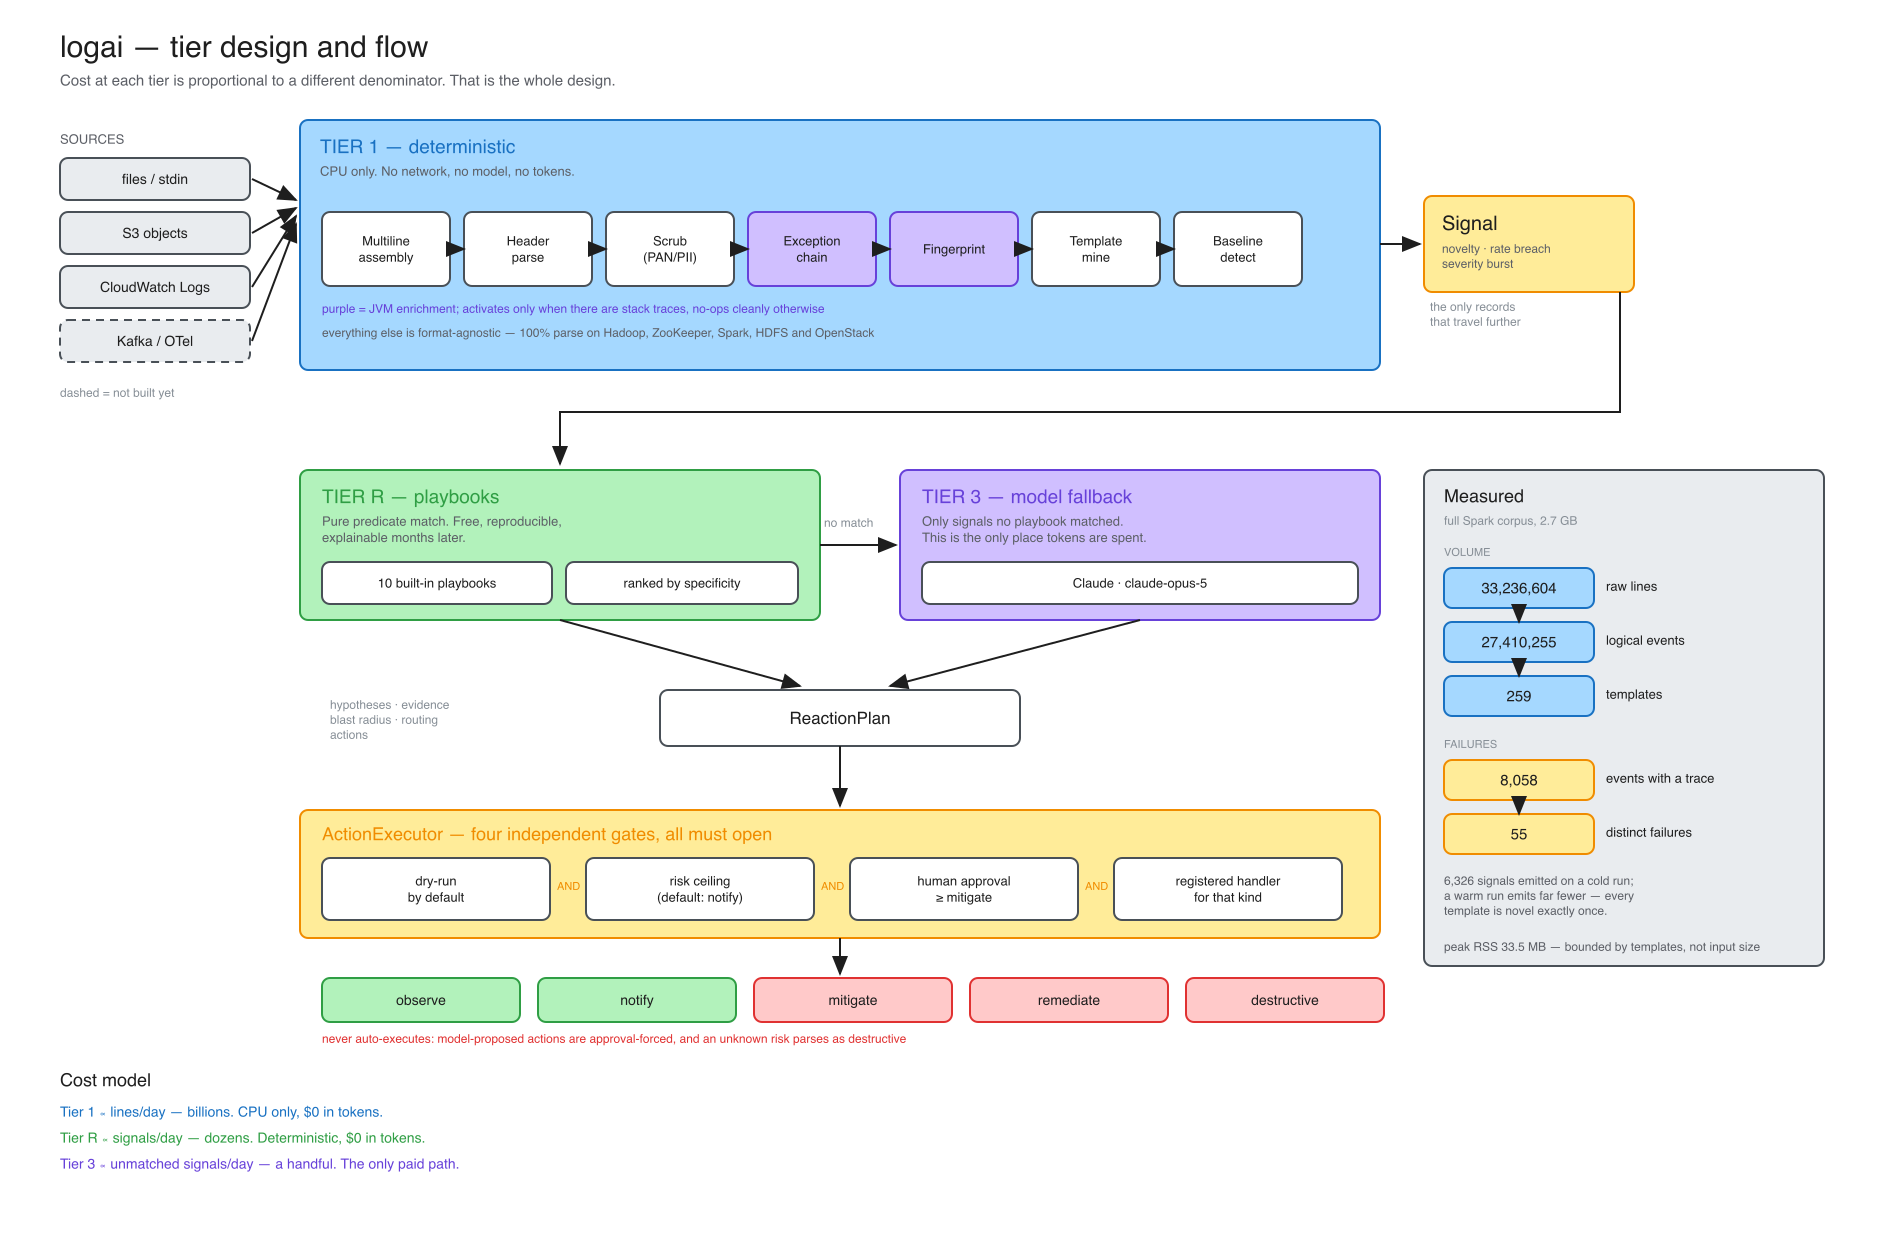
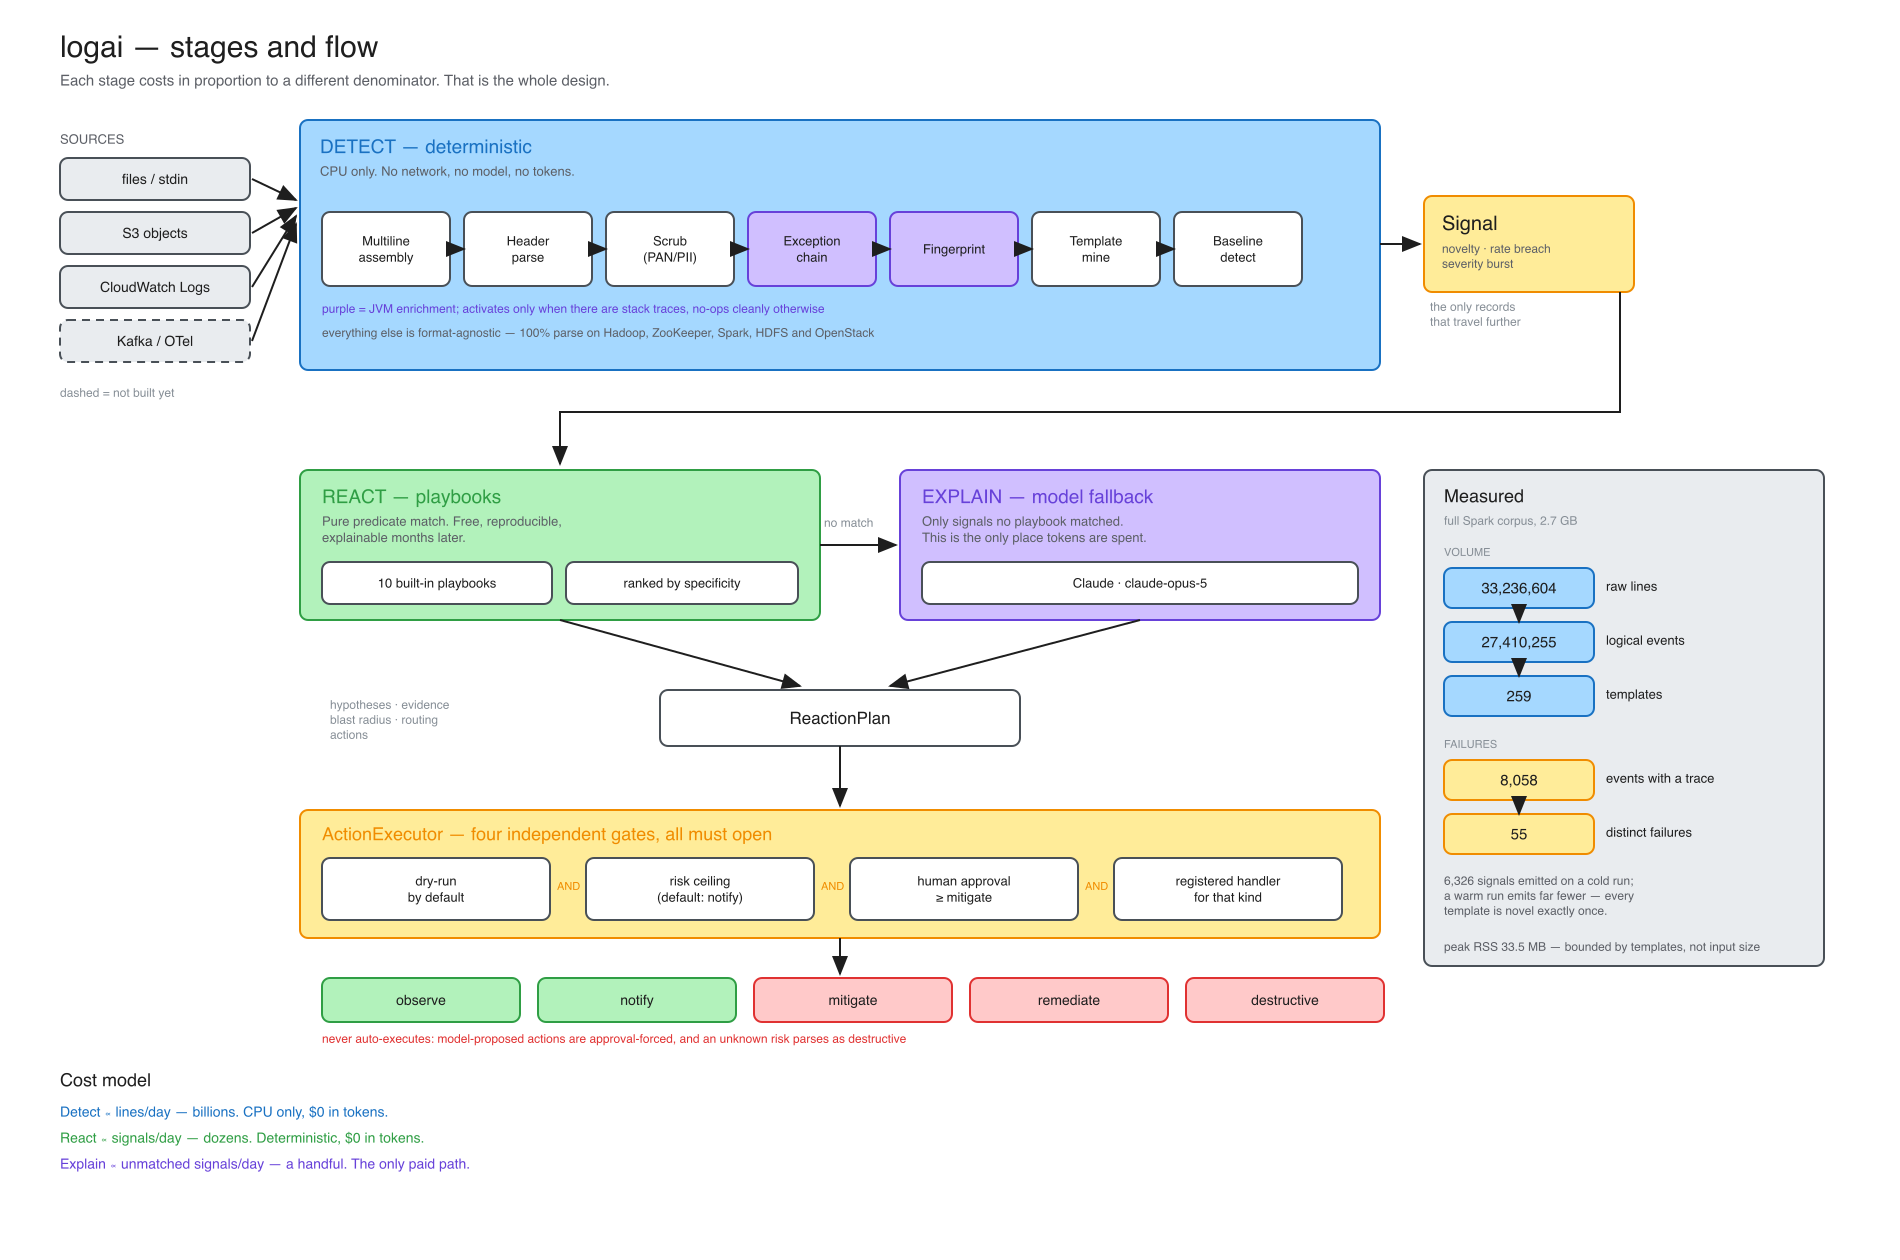
Drop tier numbering; the stages are Detect, React, Explain
The numbering had stopped describing anything. It began as 1 deterministic /
2 cheap-embedding-model / 3 agentic, and the code was written against it --
Signal was documented as "the hand-off record to tier 2/3". When the reaction
stage arrived it did not fit that scheme, so it was bolted on as "R" and tier 2
was left in the README as `not built`. The result contradicted itself: the docs
called tier 2 unbuilt while the CLI told users their signals had been escalated
to it.

Names carry the meaning the numbers were failing to, and there is no sequence to
leave a hole in:

  Detect   deterministic pipeline -> Signal      lines/day, billions
  React    playbook match -> ReactionPlan        signals/day, dozens
  Explain  model plans the unmatched long tail   unmatched signals/day, a handful

The embedding/clustering idea that occupied the old tier 2 was never a stage of
its own -- it is an optimisation inside detect, collapsing near-duplicate novel
templates so fewer become signals. It now sits in future work.

Beyond documentation, this renames the public class Tier1Pipeline -> Pipeline.
Leaving it would have put a tier number in the most visible identifier in the
project while the docs claimed there were none. Nothing external depends on it:
no release, no tags, so the rename is clean rather than a deprecation. Say if
you would rather the code had been left alone.

Diagram regenerated and re-rendered; verified visually.

164 tests.

diff --git a/docs/make_architecture.py b/docs/make_architecture.py
@@ -1,4 +1,4 @@
-"""Generates docs/architecture.excalidraw -- the tier design and data flow.
+"""Generates docs/architecture.excalidraw -- the stages and data flow.
 
 Written as a generator rather than hand-authored JSON so the geometry stays
 consistent and the diagram can be regenerated when the design moves.
@@ -84,8 +84,8 @@ def arrow(x1, y1, x2, y2, color=INK, dashed=False, via=()):
 
 
 # ---------------------------------------------------------------- title
-text(60, 30, "logai — tier design and flow", size=30)
-text(60, 72, "Cost at each tier is proportional to a different denominator. "
+text(60, 30, "logai — stages and flow", size=30)
+text(60, 72, "Each stage costs in proportion to a different denominator. "
              "That is the whole design.", size=15, color="#5c5f66")
 
 # ---------------------------------------------------------------- sources
@@ -96,10 +96,10 @@ for i, (name, planned) in enumerate(srcs):
     box(60, 158 + i * 54, 190, 42, name, GRAY, size=14, dashed=planned)
 text(60, 386, "dashed = not built yet", size=12, color="#868e96")
 
-# ---------------------------------------------------------------- tier 1
+# ---------------------------------------------------------------- detect
 T1X, T1Y, T1W, T1H = 300, 120, 1080, 250
 box(T1X, T1Y, T1W, T1H, "", BLUE, radius=3)
-text(T1X + 20, T1Y + 16, "TIER 1 — deterministic", size=19, color="#1971c2")
+text(T1X + 20, T1Y + 16, "DETECT — deterministic", size=19, color="#1971c2")
 text(T1X + 20, T1Y + 44, "CPU only. No network, no model, no tokens.", size=13, color="#5c5f66")
 
 stages = ["Multiline\nassembly", "Header\nparse", "Scrub\n(PAN/PII)",
@@ -128,10 +128,10 @@ text(SX + 18, SY + 46, "novelty · rate breach\nseverity burst", size=12, color=
 arrow(T1X + T1W, 244, SX - 4, 244)
 text(SX + 6, SY + 104, "the only records\nthat travel further", size=12, color="#868e96")
 
-# ---------------------------------------------------------------- reaction tier
+# ---------------------------------------------------------------- react / explain
 RY = 470
 box(300, RY, 520, 150, "", GREEN)
-text(322, RY + 16, "TIER R — playbooks", size=19, color="#2f9e44")
+text(322, RY + 16, "REACT — playbooks", size=19, color="#2f9e44")
 text(322, RY + 44, "Pure predicate match. Free, reproducible,\n"
                    "explainable months later.", size=13, color="#5c5f66")
 box(322, RY + 92, 230, 42, "10 built-in playbooks", WHITE, size=13)
@@ -139,7 +139,7 @@ box(566, RY + 92, 232, 42, "ranked by specificity", WHITE, size=13)
 arrow(SX + 196, SY + 96, 560, RY - 6, via=[(1620, 412), (560, 412)])
 
 box(900, RY, 480, 150, "", VIOLET)
-text(922, RY + 16, "TIER 3 — model fallback", size=19, color="#6741d9")
+text(922, RY + 16, "EXPLAIN — model fallback", size=19, color="#6741d9")
 text(922, RY + 44, "Only signals no playbook matched.\nThis is the only place tokens are spent.",
      size=13, color="#5c5f66")
 box(922, RY + 92, 436, 42, "Claude · claude-opus-5", WHITE, size=13, family=3)
@@ -215,11 +215,11 @@ text(FX + 20, FY + 470, "peak RSS 33.5 MB — bounded by templates, not input si
      size=12, color="#5c5f66")
 
 text(60, CY, "Cost model", size=18)
-for i, (tier, denom, color) in enumerate([
-        ("Tier 1", "lines/day — billions.  CPU only, $0 in tokens.", "#1971c2"),
-        ("Tier R", "signals/day — dozens.  Deterministic, $0 in tokens.", "#2f9e44"),
-        ("Tier 3", "unmatched signals/day — a handful.  The only paid path.", "#6741d9")]):
-    text(60, CY + 34 + i * 26, f"{tier}   ∝  {denom}", size=14, color=color)
+for i, (stage, denom, color) in enumerate([
+        ("Detect ", "lines/day — billions.  CPU only, $0 in tokens.", "#1971c2"),
+        ("React  ", "signals/day — dozens.  Deterministic, $0 in tokens.", "#2f9e44"),
+        ("Explain", "unmatched signals/day — a handful.  The only paid path.", "#6741d9")]):
+    text(60, CY + 34 + i * 26, f"{stage}   ∝  {denom}", size=14, color=color)
 
 OUT.write_text(json.dumps({
     "type": "excalidraw", "version": 2, "source": "https://excalidraw.com",

diff --git a/logai/cli.py b/logai/cli.py
@@ -13,7 +13,7 @@ from pathlib import Path
 from typing import Iterable, Sequence
 
 from .baseline.detector import DetectorConfig
-from .pipeline import PipelineConfig, Tier1Pipeline
+from .pipeline import Pipeline, PipelineConfig
 from .react.actions import RiskLevel
 from .react.engine import ReactionEngine
 from .react.execute import ActionExecutor, ExecutorConfig
@@ -70,12 +70,12 @@ class ReportData:
         self.signals.extend(signals)
 
 
-def _report(path: str, pipeline: Tier1Pipeline, data: ReportData, top: int) -> str:
+def _report(path: str, pipeline: Pipeline, data: ReportData, top: int) -> str:
     s = pipeline.stats
     out: list[str] = []
     w = out.append
 
-    w(f"\n\033[1mTier-1 report\033[0m  {path}")
+    w(f"\n\033[1mlogai report\033[0m  {path}")
     w("=" * 72)
 
     parsed_pct = 100 * s.parsed_events / s.events if s.events else 0
@@ -87,7 +87,7 @@ def _report(path: str, pipeline: Tier1Pipeline, data: ReportData, top: int) -> s
     hits = dict(pipeline.scrubber.totals)
     hit_str = " ".join(f"{k}={v}" for k, v in sorted(hits.items())) or "none"
     w(f"  Redaction    {_fmt(s.redacted_events)} events redacted  [{hit_str}]")
-    w(f"  Signals      {len(data.signals)} escalated to tier 2/3")
+    w(f"  Signals      {len(data.signals)} escalated to react/explain")
 
     template_counts = data.template_counts
     templates = pipeline.miner.templates()
@@ -128,7 +128,7 @@ def main(argv: Sequence[str] | None = None) -> int:
     parser = argparse.ArgumentParser(prog="logai", description=__doc__)
     sub = parser.add_subparsers(dest="command", required=True)
 
-    an = sub.add_parser("analyze", help="run the tier-1 pipeline over a log file")
+    an = sub.add_parser("analyze", help="run the detect pipeline over a log file")
     an.add_argument("path", nargs="?", default=None,
                     help="log file, or - for stdin (omit when using --loghub)")
     an.add_argument("--loghub-full", metavar="NAME",
@@ -196,7 +196,7 @@ def main(argv: Sequence[str] | None = None) -> int:
             min_ratio=args.min_ratio,
         ),
     )
-    pipeline = Tier1Pipeline(config)
+    pipeline = Pipeline(config)
     if args.loghub_full:
         label, lines = f"loghub-full:{args.loghub_full}", loghub.load_full(args.loghub_full)
     elif args.loghub:

diff --git a/logai/pipeline.py b/logai/pipeline.py
@@ -1,4 +1,4 @@
-"""Tier 1: the deterministic path. No model calls, no network, no tokens.
+"""Detect: the deterministic path. No model calls, no network, no tokens.
 
     raw lines
       -> MultilineAssembler   one logical event per stack trace
@@ -8,10 +8,10 @@
       -> fingerprint_exception  stable identity for the failure
       -> TemplateMiner        drain3 template id
       -> BaselineDetector     novelty / rate breach / severity burst
-      -> Signal               the hand-off record to tier 2 and 3
+      -> Signal               the hand-off record to react and explain
 
 Cost here is CPU-per-line and nothing else, which is what lets it run over the
-full firehose. Only :class:`Signal` objects continue to the paid tiers, so spend
+full firehose. Only :class:`Signal` objects travel further, so spend downstream
 scales with incidents rather than with volume.
 """
 
@@ -64,11 +64,11 @@ class PipelineStats:
 
     @property
     def compression(self) -> float:
-        """Raw lines per distinct template -- the tier-1 economics in one number."""
+        """Raw lines per distinct template -- the economics in one number."""
         return self.raw_lines / self.templates if self.templates else 0.0
 
 
-class Tier1Pipeline:
+class Pipeline:
     def __init__(self, config: PipelineConfig | None = None) -> None:
         self.config = config or PipelineConfig()
         self.assembler = MultilineAssembler(self.config.header_pattern)

diff --git a/logai/baseline/detector.py b/logai/baseline/detector.py
@@ -1,9 +1,9 @@
 """Decides which events are worth a model call.
 
 This is the gate that makes the economics work. Everything upstream is
-arithmetic over templates; everything downstream (embedding, LLM triage) is paid
-per call. A signal emitted here is the unit of work handed to the expensive
-tiers, so the volume of signals -- not the volume of logs -- sets the bill.
+arithmetic over templates; everything downstream is paid per call. A
+signal emitted here is the unit of work handed on, so the volume of signals --
+not the volume of logs -- sets the bill.
 
 Three detectors, cheapest first:
 
@@ -38,7 +38,7 @@ SEVERITY_BURST = "severity_burst"
 
 @dataclass(slots=True)
 class Signal:
-    """A candidate incident. The hand-off record to tier 2/3."""
+    """A candidate incident. The hand-off record to the react stage."""
 
     kind: str
     key: str
@@ -148,7 +148,7 @@ class BaselineDetector:
         # Novelty is whether the *miner* had ever seen this template, not whether
         # this process has. drain3 persists that across restarts; a set kept here
         # would not, and would re-announce every template as new after every
-        # deploy -- alert spam that bills straight through to tier 3.
+        # deploy -- alert spam that bills straight through to the model.
         if (
             self.config.report_novel_templates
             and event.template_id is not None

diff --git a/logai/__init__.py b/logai/__init__.py
@@ -1,4 +1,4 @@
-"""logai -- tiered log intelligence.
+"""logai -- staged log intelligence.
 
 Format-agnostic through template mining and baselining; strongest on JVM
 logs, where stack traces are reassembled into single events and failures are
@@ -7,7 +7,7 @@ the rest of the pipeline unchanged.
 """
 
 from .baseline.detector import BaselineDetector, DetectorConfig, Signal
-from .pipeline import PipelineConfig, PipelineStats, Tier1Pipeline
+from .pipeline import Pipeline, PipelineConfig, PipelineStats
 from .react.actions import Action, ActionResult, RiskLevel
 from .react.engine import EngineConfig, Planner, ReactionEngine
 from .react.execute import ActionExecutor, ExecutorConfig
@@ -17,11 +17,11 @@ from .schema import ExceptionInfo, LogEvent, Severity, StackFrame
 
 __version__ = "0.2.0"
 __all__ = [
-    # tier 1
-    "Tier1Pipeline", "PipelineConfig", "PipelineStats",
+    # detect
+    "Pipeline", "PipelineConfig", "PipelineStats",
     "BaselineDetector", "DetectorConfig", "Signal",
     "LogEvent", "ExceptionInfo", "StackFrame", "Severity",
-    # reaction tier
+    # react / explain
     "ReactionEngine", "EngineConfig", "Planner", "ReactionPlan", "Routing",
     "Playbook", "Match", "BUILTIN_PLAYBOOKS",
     "Action", "ActionResult", "RiskLevel", "ActionExecutor", "ExecutorConfig",

diff --git a/tests/test_sources.py b/tests/test_sources.py
@@ -135,8 +135,8 @@ def test_widening_the_header_pattern_did_not_swallow_continuations(line):
 
 
 def test_non_jvm_logs_use_the_pipeline_without_the_exception_layer():
-    from logai import PipelineConfig, Tier1Pipeline
-    pipeline = Tier1Pipeline(PipelineConfig(default_service="openstack"))
+    from logai import PipelineConfig, Pipeline
+    pipeline = Pipeline(PipelineConfig(default_service="openstack"))
     events = list(pipeline.events(loghub.load("openstack")))
     assert pipeline.stats.parsed_events == pipeline.stats.events   # 100% parsed
     assert pipeline.stats.events_with_exception == 0               # no JVM traces

diff --git a/tests/test_pipeline.py b/tests/test_pipeline.py
@@ -1,6 +1,6 @@
 from pathlib import Path
 
-from logai import PipelineConfig, Tier1Pipeline
+from logai import PipelineConfig, Pipeline
 from logai.baseline.detector import NOVEL_FINGERPRINT, NOVEL_TEMPLATE, RATE_BREACH
 from logai.schema import Severity
 
@@ -8,7 +8,7 @@ FIXTURE = Path(__file__).parent.parent / "fixtures" / "payment-service.log"
 
 
 def build():
-    return Tier1Pipeline(PipelineConfig(app_packages=("com.lily.",), default_service="lily-payments"))
+    return Pipeline(PipelineConfig(app_packages=("com.lily.",), default_service="lily-payments"))
 
 
 def analyse():

diff --git a/logai/baseline/counters.py b/logai/baseline/counters.py
@@ -1,7 +1,7 @@
 """Time-bucketed counting over a rolling window.
 
 Counts are kept per (service, template) rather than per raw line, which is the
-whole economic point of tier 1: the number of distinct keys tracks the number of
+whole economic point of the detect stage: the number of distinct keys tracks the
 *templates* a system emits (hundreds to low thousands) rather than the number of
 lines it emits (billions). Memory is bounded by keys x window, not by volume.
 """

diff --git a/logai/react/llm.py b/logai/react/llm.py
@@ -1,6 +1,6 @@
 """Model-backed planner for signals no playbook covers.
 
-This is tier 3, and it is deliberately the last resort. Playbooks handle known
+This is the explain stage, and it is deliberately the last resort. Playbooks handle known
 failure modes for free and reproducibly; the model exists for the long tail,
 where writing a rule in advance was not possible. Cost therefore scales with
 *unmatched* signals, which in a healthy system is a small number per day.

diff --git a/logai/sources/aws.py b/logai/sources/aws.py
@@ -2,7 +2,7 @@
 
 Covers the two shapes that AWS Centralized Logging with OpenSearch (formerly
 "Log Hub") actually leaves logs in: objects on S3, and CloudWatch Logs streams.
-Both yield plain lines, so the tier-1 pipeline consumes them exactly like a file
+Both yield plain lines, so the detect pipeline consumes them exactly like a file
 -- multiline assembly still happens here, on our side, because neither source
 preserves the notion of a logical event.
 

diff --git a/logai/template/fingerprint.py b/logai/template/fingerprint.py
@@ -1,6 +1,7 @@
 """Stable identity for a failure.
 
-The question tier 3 has to answer is "is this the same bug as last Tuesday?".
+The question the explain stage has to answer is "is this the same bug as last
+Tuesday?".
 Grouping by exception class is far too coarse -- half a large codebase throws
 `NullPointerException`. Grouping by the full stack trace is far too fine: the
 same defect reached through a REST controller, a Kafka consumer and a scheduled

diff --git a/logai/sources/loghub.py b/logai/sources/loghub.py
@@ -5,7 +5,7 @@ number of systems. Four of them are JVM applications, which makes them the best
 freely available check that header parsing survives contact with formats nobody
 designed for us.
 
-Two tiers of data, and the difference matters:
+Two levels of data, and the difference matters:
 
 * The **2k samples** in the GitHub repo are single-line only -- they contain no
   stack traces at all. Good for header parsing and template mining, useless for
